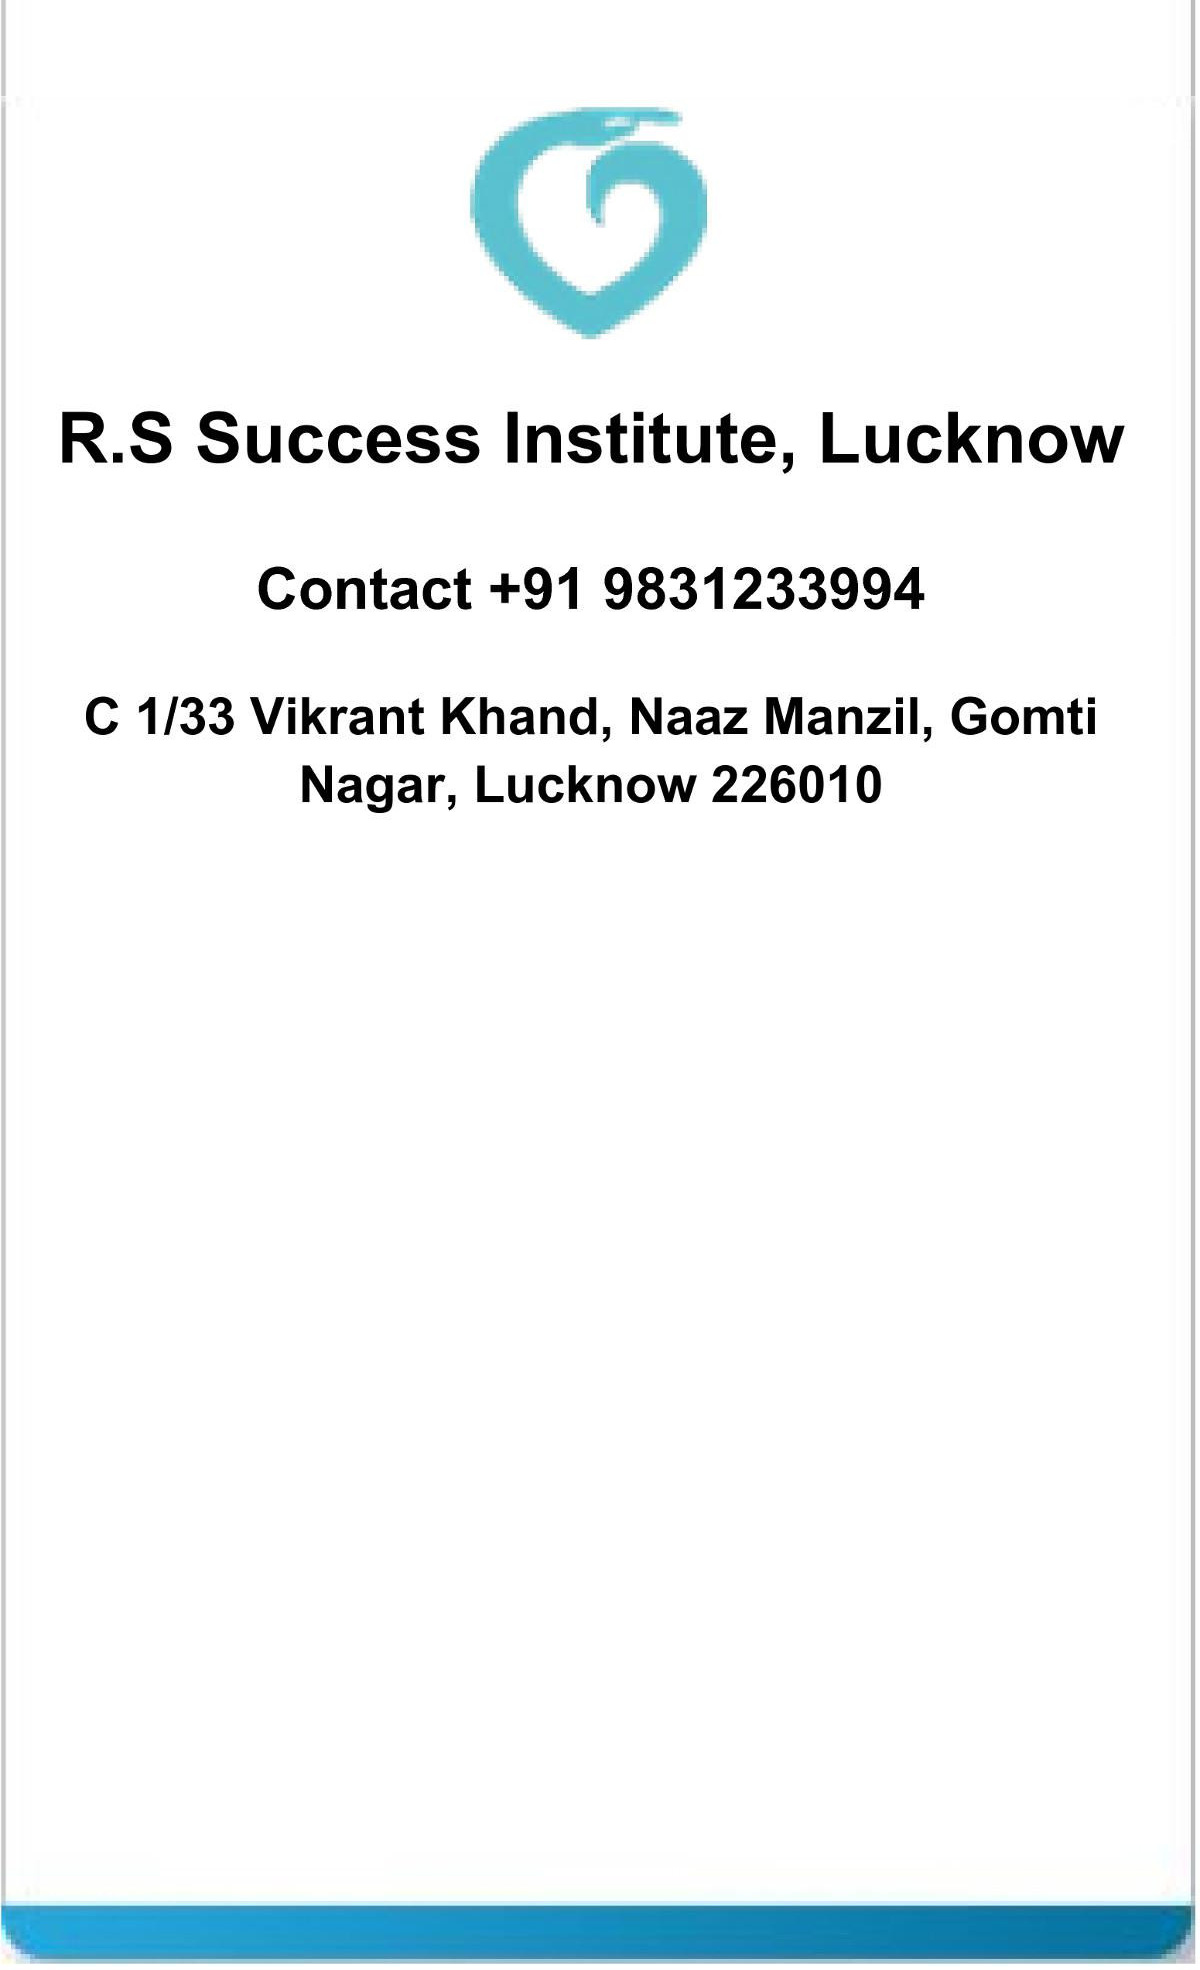
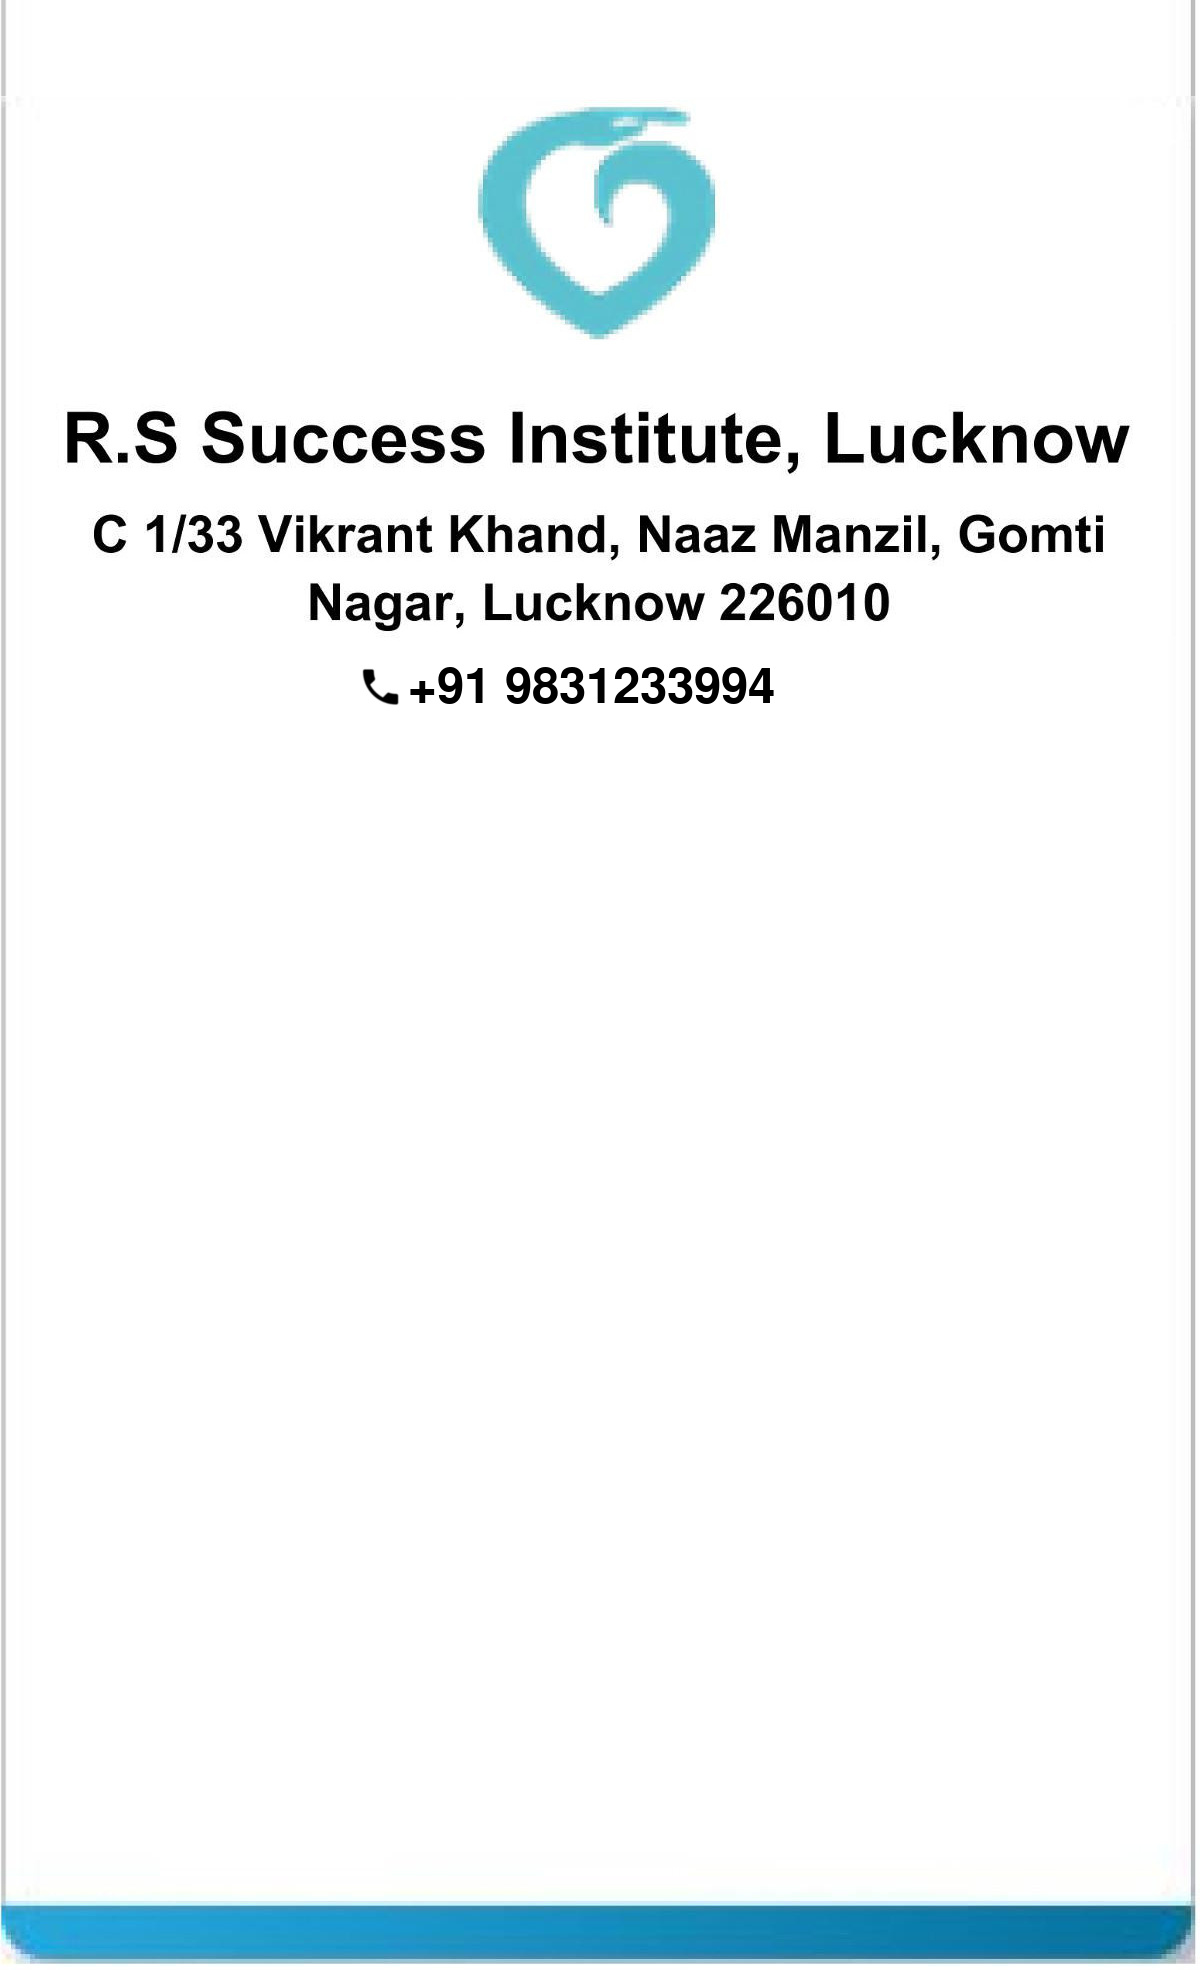
updated icard format

Changed region(s): [[0.0308, 0.0619, 0.9558, 0.4335], [0.0617, 0.3406, 0.0925, 0.3716]]

diff --git a/app/jobs/card.py b/app/jobs/card.py
@@ -14,7 +14,7 @@ import os
 import time
 import cStringIO, urllib
 
-Person = namedtuple('Person', 'name type contact image')
+Person = namedtuple('Person', 'name type contact image userid')
 
 CARD_BODY_STRING = 'Please find the I cards generated on {} in attachments.'
 CARD_REPORT_SUBJECT = os.getenv('MARKSHEET_REPORT_SUBJECT', 'RSSI I-Cards')
@@ -28,11 +28,12 @@ def build_card(meta, branch_id):
     persons = []
     for user in itertools.chain(students, faculties):
         user_type = "Student" if isinstance(user, Student) else "Faculty"
-        user_id = getattr(user, 'student_id', getattr(user, 'facultyId', '')).upper()
+        user_id = getattr(user, 'student_id', getattr(user, 'facultyId', '')).strip().upper()
         persons.append(Person(user.name,
                               user_type,
                               getattr(user, 'contact', None),
-                              user.image
+                              user.image,
+                              user_id
                               ))
     card_img_files = generate_cards(persons)
     zip_filename = zipFiles(card_img_files, name='i-cards {}.zip'.format(int(time.time())), deleteAfterZip=True)
@@ -64,14 +65,14 @@ def generate_cards(persons):
 
         font = ImageFont.truetype(font_path, 60)
 
-        text_width, _ = draw.textsize(person.type, font=font)
+        text_width, _ = draw.textsize(person.userid, font=font)
         text_x = (width - text_width) / 2
-        draw.text((text_x, 1499), person.type, (0, 0, 0), font=font)
+        draw.text((text_x, 1499), person.userid, (0, 0, 0), font=font)
 
         font = ImageFont.truetype(font_path, 70)
 
         contact = person.contact if person.contact else (' ' * 20)
-        number = 'Contact: +91 %10s' % str(contact)
+        number = '+91 %10s' % str(contact)
         text_width, _ = draw.textsize(number, font=font)
         text_x = (width - text_width) / 2
         draw.text((text_x, 1599), number, (0, 0, 0), font=font)
